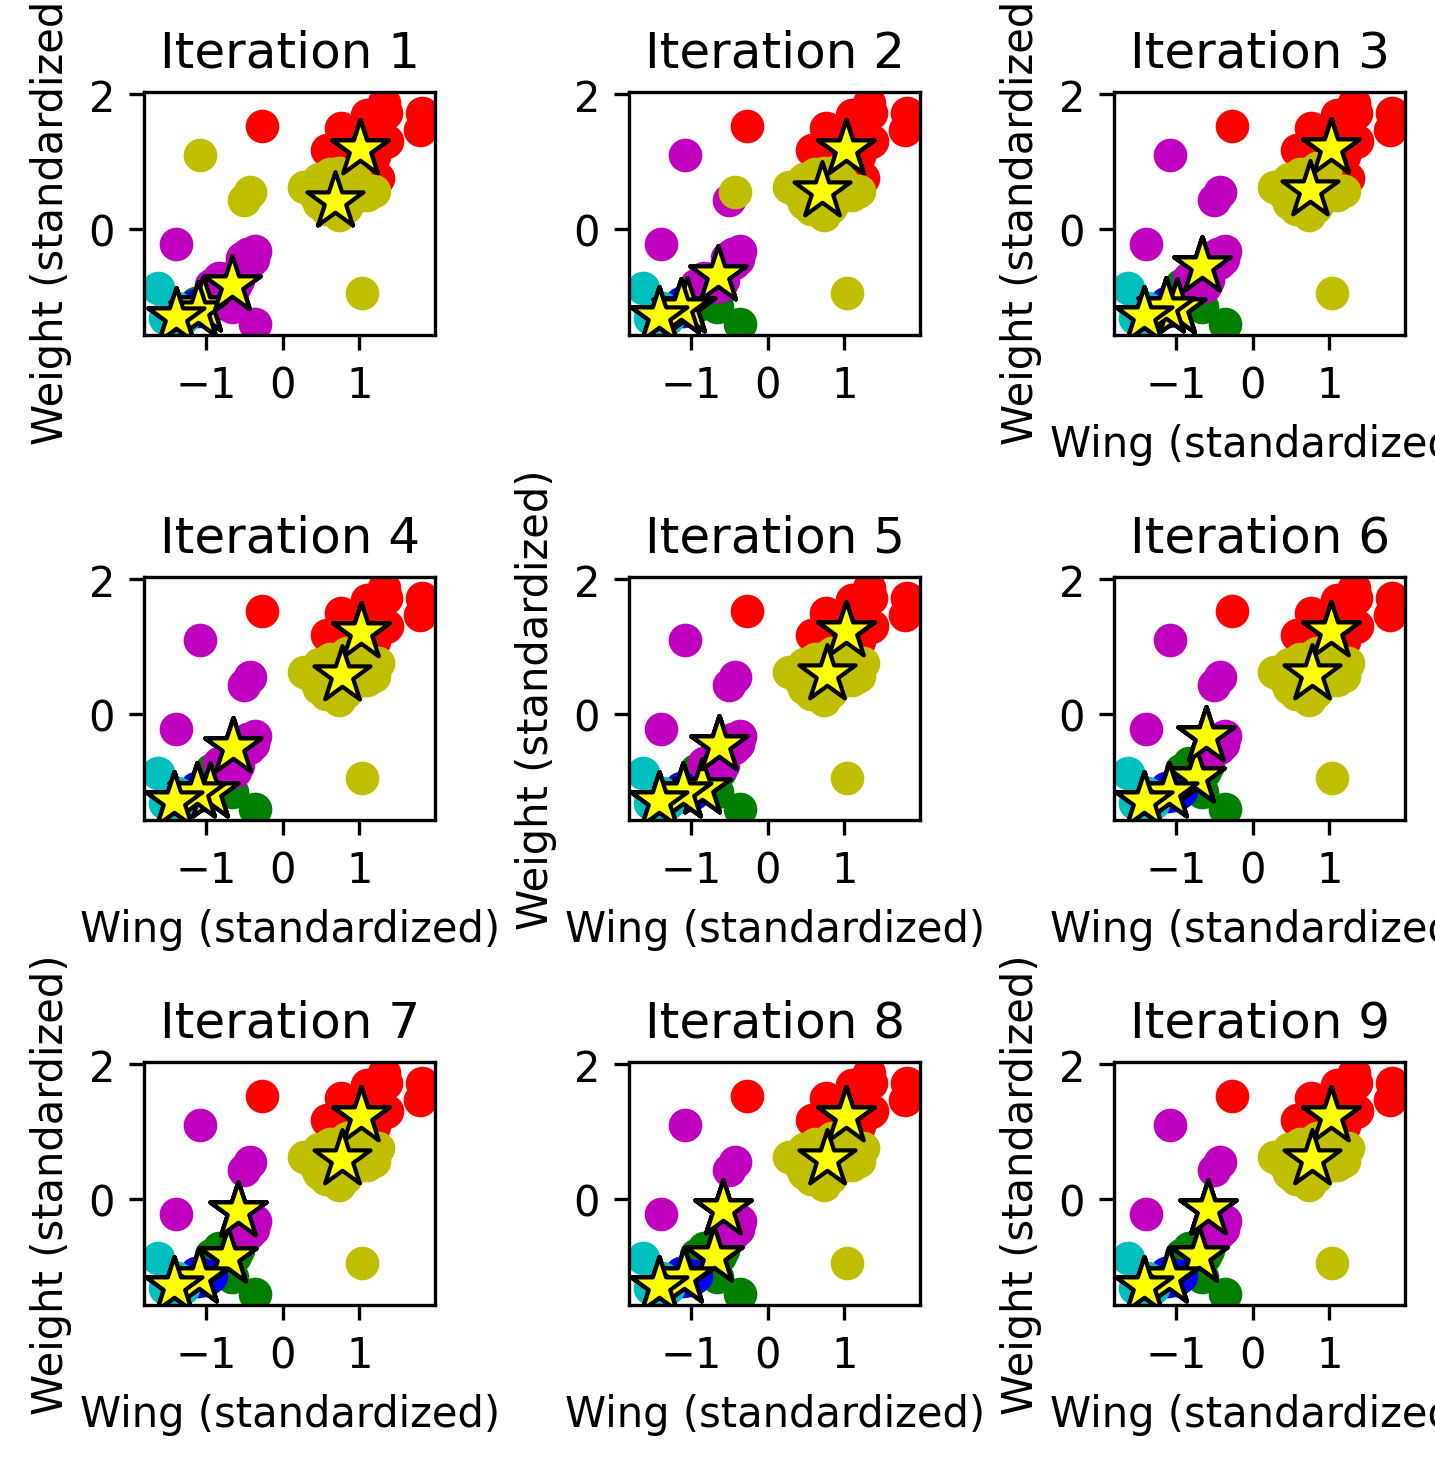
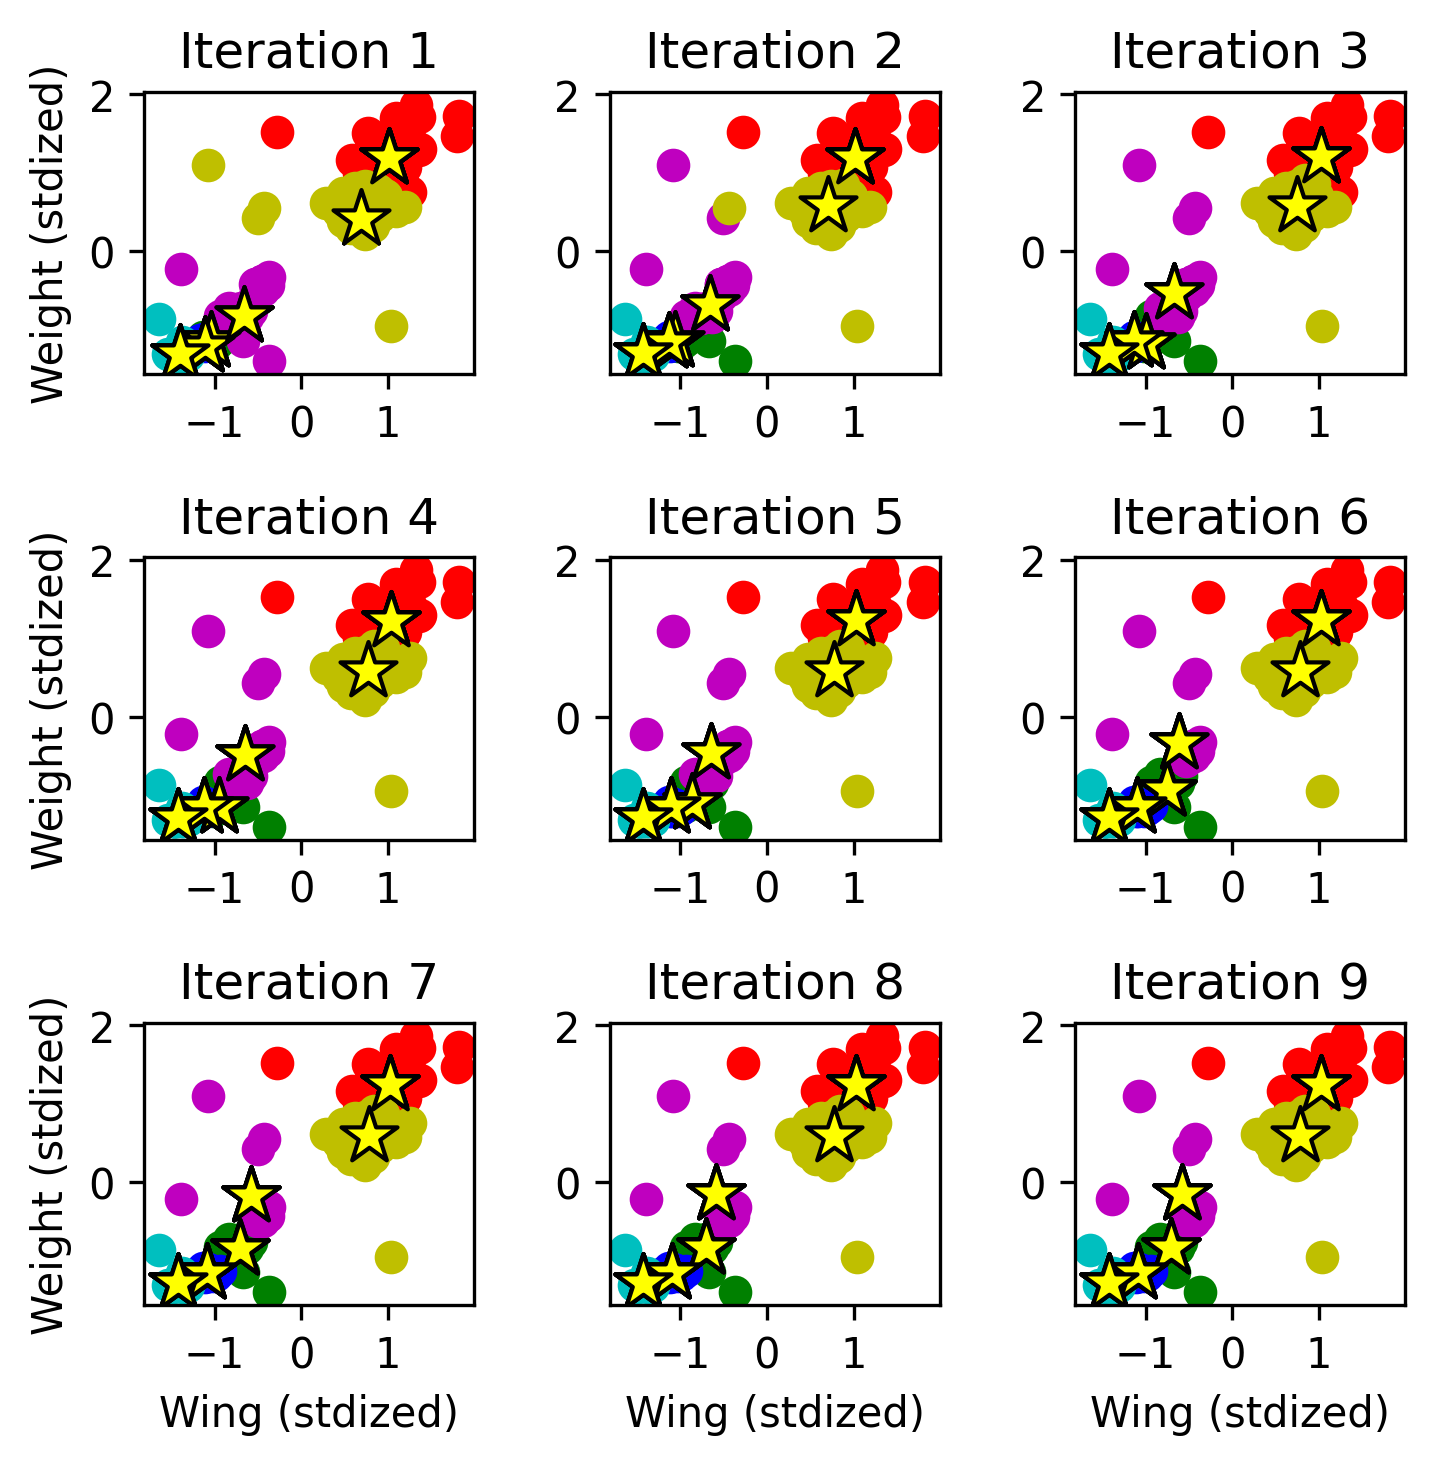
m

diff --git a/04_unsupervised/source/04.1_khawksk6.py b/04_unsupervised/source/04.1_khawksk6.py
@@ -27,10 +27,10 @@ def plot_clusters(ax, X, centroids, labels, iteration, position):
         ax.scatter(centroids[:, 0], centroids[:, 1], s=200, c='yellow', marker='*', edgecolor='k')
     #ax.legend()
     # Set labels only for leftmost and bottom plots
-    if position % 2 == 0:  # Leftmost plots (0 and 2 in 0-based index)
-        ax.set_ylabel('Weight (standardized)')
-    if position >= 2:  # Bottom plots (2 and 3 in 0-based index)
-        ax.set_xlabel('Wing (standardized)')
+    if position % 3 == 0:  # Leftmost plots (0 and 2 in 0-based index)
+        ax.set_ylabel('Weight (stdized)')
+    if position >= 6:  # Bottom plots (2 and 3 in 0-based index)
+        ax.set_xlabel('Wing (stdized)')
     
     ax.set_title(f'Iteration {iteration}')
     #ax.legend()
